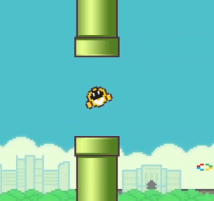
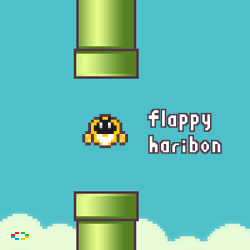
updated mechanics, readme, and asssets

diff --git a/js/main.js b/js/main.js
@@ -9,7 +9,7 @@ var states = Object.freeze({
 var currentstate;
 
 var gravity = 0.25;
-var velocity = 5;
+var velocity = 0;
 var position = 180;
 var rotation = 0;
 var jump = -4.6;
@@ -32,6 +32,9 @@ var soundHit = new buzz.sound("assets/sounds/sfx_hit.ogg");
 var soundDie = new buzz.sound("assets/sounds/sfx_die.ogg");
 var soundSwoosh = new buzz.sound("assets/sounds/sfx_swooshing.ogg");
 buzz.all().setVolume(volume);
+
+// Look for bird color
+randomizeBirdColor();
 
 //loops
 var loopGameloop;
@@ -447,7 +450,6 @@ function updatePipes() {
   );
   $("#flyarea").append(newpipe);
   pipes.push(newpipe);
-  console.log(pipes);
 }
 
 var isIncompatible = {
@@ -483,3 +485,19 @@ var isIncompatible = {
     );
   },
 };
+
+function randomizeBirdColor() {
+  // get a random bird class
+  var birdClasses = [
+    "bird animated bird-1",
+    "bird animated bird-2",
+    "bird animated bird-3",
+    "bird animated bird-4",
+    "bird animated bird-5",
+  ];
+  var randomBirdClass =
+    birdClasses[Math.floor(Math.random() * birdClasses.length)];
+
+  // apply the random bird class to the player element
+  $(player).removeClass().addClass(randomBirdClass);
+}

diff --git a/css/main.css b/css/main.css
@@ -356,10 +356,29 @@ Screen - Game
   position: absolute;
   width: 34px;
   height: 24px;
-  background-image: url("../assets/bird.png");
 
   -webkit-animation: animBird 300ms steps(4) infinite;
   animation: animBird 300ms steps(4) infinite;
+}
+
+.bird-1 {
+  background-image: url("../assets/bird-1.png");
+}
+
+.bird-2 {
+  background-image: url("../assets/bird-2.png");
+}
+
+.bird-3 {
+  background-image: url("../assets/bird-3.png");
+}
+
+.bird-4 {
+  background-image: url("../assets/bird-4.png");
+}
+
+.bird-5 {
+  background-image: url("../assets/bird-5.png");
 }
 
 .pipe {

diff --git a/README.md b/README.md
@@ -4,7 +4,7 @@ This repository is a fork of the original [Flappy Bird](https://nebezb.com/flopp
 
 ## Credits
 
-- Original Game: [Flappy Bird](https://nebezb.com/floppybird/) by Dong Nguyen and .GEARS games
+- Original Game: [Flappy Bird](https://nebezb.com/flo ppybird/) by Dong Nguyen and .GEARS games
 - Forked Repository: [Original Repository](https://github.com/nebez/ts-floppybird)
 
 ## Freshman Welcoming
